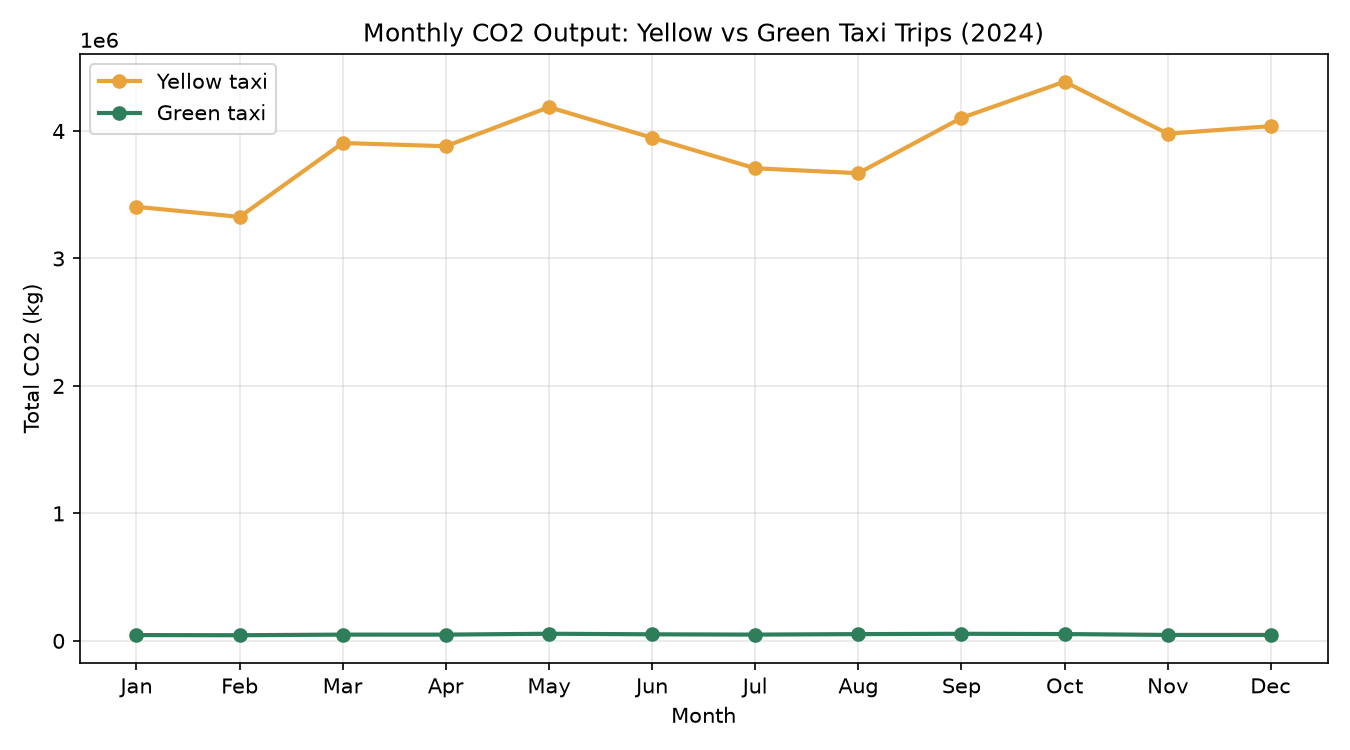
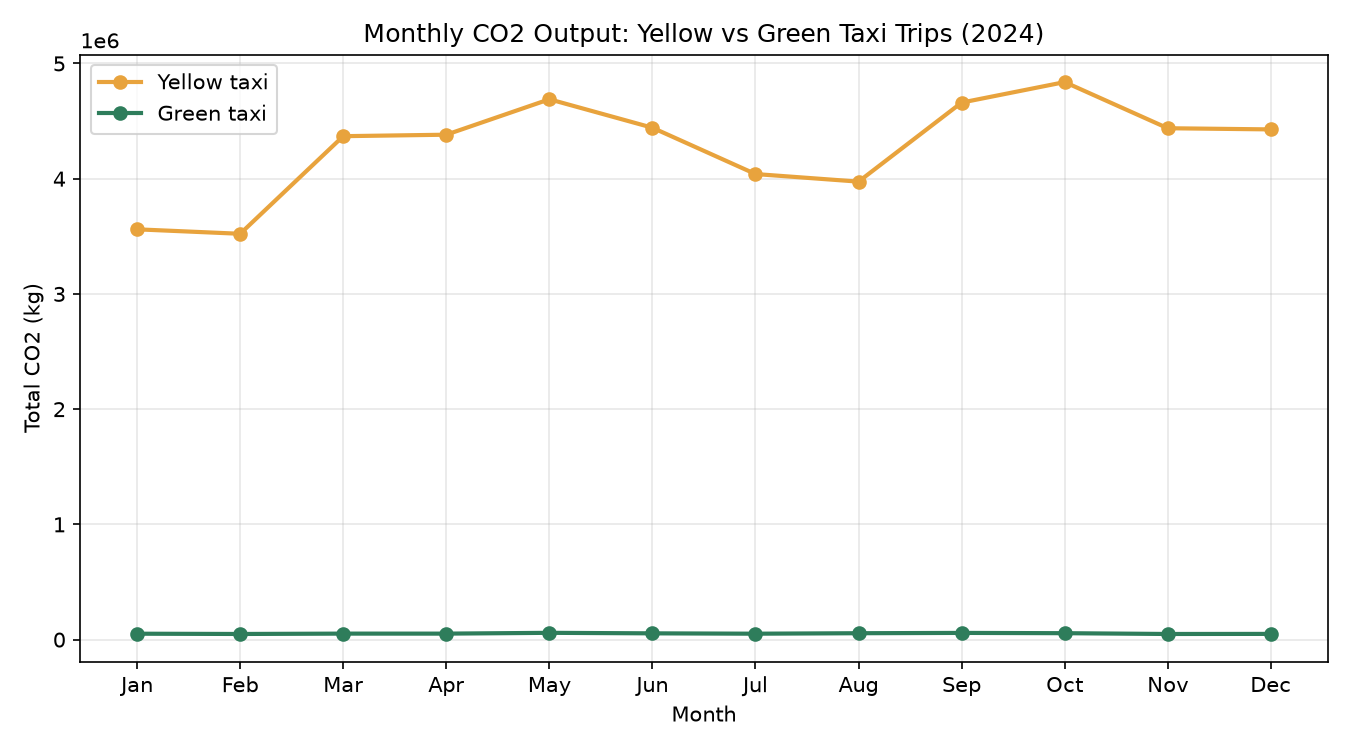
Add run.py to execute full pipeline in one command

diff --git a/run.py b/run.py
@@ -1,0 +1,14 @@
+from load import load_parquet_files
+from clean import clean_trip_tables
+from transform import transform_trip_tables
+from analysis import run_analysis
+
+# runs the full pipeline in order: load, clean, transform, analyze
+def pipeline():
+    load_parquet_files()
+    clean_trip_tables()
+    transform_trip_tables()
+    run_analysis()
+
+if __name__ == "__main__":
+    pipeline()
